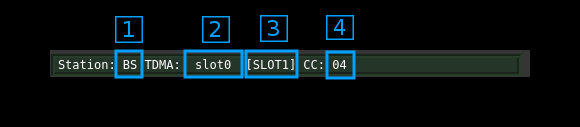
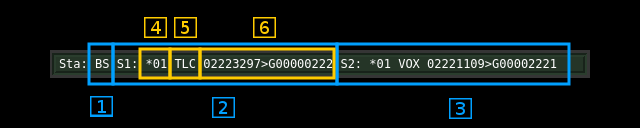
Updated documentation related to the DSD demon plugin

diff --git a/plugins/channel/demoddsd/readme.md b/plugins/channel/demoddsd/readme.md
@@ -4,10 +4,16 @@
 
 This plugin uses the [DSDcc](https://github.com/f4exb/dsdcc) library that has been rewritten from the original [DSD](https://github.com/szechyjs/dsd) program to decode several digital speech formats. At present it covers the following:
 
-  - DMR/MOTOTRBO: European two slot TDMA standard. MOTOTRBO is a popular implementation of this standard.
+  - DMR/MOTOTRBO: ETSI two slot TDMA standard. MOTOTRBO is a popular implementation of this standard.
+  - dPMR: Another ETSI standard at slower rate (2400 Baud / 6.25 kHz) and FDMA
   - D-Star: developed and promoted by Icom for Amateur Radio customers.
 
-The modulation and format is automatically detected and switched.
+It can only detect the following standards (no data, no voice):
+
+  - Yaesu System Fusion (YSF): developed and promoted by Yaesu for Amateur Radio customers.
+  - NXDN: A joint Icom (IDAS) and Kenwood (Nexedge) standard with 2400 and 4800 Baud versions.
+
+The modulation and standard is automatically detected and switched depending on the Baud rate chosen.
 
 To enable this plugin at compile time you will need to have DSDcc installed in your system. Please follow instructions in [DSDcc readme](https://github.com/f4exb/dsdcc/blob/master/Readme.md) to build and install DSDcc. If you install it in a custom location say `/opt/install/dsdcc` you will need to add these defines to the cmake command: `-DLIBDSDCC_INCLUDE_DIR=/opt/install/dsdcc/include/dsdcc -DLIBDSDCC_LIBRARIES=/opt/install/dsdcc/lib/libdsdcc.so`
 
@@ -53,19 +59,14 @@ Here you can specify which symbol rate or Baud rate is expected. Choices are:
 This can be one of the following:
 
   - `+DMRd`: non-inverted DMR data frame
-  - `-DMRd`: inverted DMR data frame
   - `+DMRv`: non-inverted DMR voice frame
-  - `-DMRv`: inverted DMR voice frame
   - `+D-STAR`: non-inverted D-Star frame
   - `-D-STAR`: inverted D-Star frame
   - `+D-STAR_HD`: non-inverted D-Star header frame encountered
   - `-D-STAR_HD`: inverted D-Star header frame encountered
   - `+dPMR`: non-inverted dPMR non-packet frame
-  - `-dPMR`: inverted dPMR non-packet frame
   - `+NXDN`: non-inverted NXDN frame (detection only)
-  - `-NXDN`: inverted NXDN frame (detection only)
   - `+YSF`: non-inverted Yaesu System Fusion frame (detection only)
-  - `-YSF`: inverted Yaesu System Fusion frame (detection only)
 
 <h3>4: Symbol synchronization zero crossing hits in %</h3>
 
@@ -119,64 +120,122 @@ This is the audio volume for positive values. A value of zero triggers the auto 
 
 This is the deviation in kHz leading to maximum (100%) deviation. You should aim for 30 to 50% (+/-300 to +/-500m) deviation on the scope display.
 
-<h3>15: Squelch level</h3>
+<h3>15: Two slot TDMA handling</h3>
+
+This is useful for two slot TDMA modes that is only DMR at present. FDMA modes are treated as using slot #1 only.
+
+![DSD TDMA handling](../../../doc/img/DSDdemod_plugin_tdma.png)
+
+<h4>15.1: Slot #1 voice select</h4>
+
+Toggle button to select slot #1 voice output. When on waves appear on the icon. The icon turns green when voice frames are processed for this slot. For FDMA modes you may want to leave only this toggle on.
+
+<h4>15.2: Slot #2 voice select</h4>
+
+Toggle button to select slot #2 voice output. When on waves appear on the icon. The icon turns green when voice frames are processed for this slot. For FDMA modes you may want to leave this toggle off.
+
+<h4>15.3: TDMA stereo mode toggle</h4>
+
+  - When off the icon shows a single loudspeaker. It mixes slot #1 and slot #2 voice as a mono audio signal
+  - When on the icon shows a pair of loudspeakers. It sends slot #1 vocie to the left stereo audio channel and slot #2 to the right one
+  
+For FDMA standards you may want to leave this as mono mode.
+
+<h3>16: Squelch level</h3>
 
 The level corresponds to the channel power above which the squelch gate opens.
 
-<h3>16: Squelch time gate</h3>
+<h3>17: Squelch time gate</h3>
 
 Number of milliseconds following squelch gate opening after which the signal is actually fed to the decoder. 0 means no delay i.e. immediate feed.
 
-<h3>17: Audio mute and squelch indicator</h3>
+<h3>18: Audio mute and squelch indicator</h3>
 
 Audio mute toggle button. This button lights in green when the squelch opens.
 
-<h3>18: Format specific status display</h3>
+<h3>19: Format specific status display</h3>
 
 When the display is active the background turns from the surrounding gray color to dark green. It shows informatory or status messages that are particular to each format.
 
-<h4>18.1: D-Star status display</h4>
+<h4>19.1: D-Star status display</h4>
 
 ![DSD D-Star status](../../../doc/img/DSDdemod_plugin_dstar_status.png)
 
 These is the standard D-Star embedded information that is read from the header frame.
 
-<h5>18.1.1: Repeater 1 callsign</h5>
-<h5>18.1.2: Repeater 2 callsign</h5>
-<h5>18.1.3: Destination (your) callsign</h5>
-<h5>18.1.4: Origin (my) callsign</h5>
+<h5>19.1.1: Repeater 1 callsign</h5>
+<h5>19.1.2: Repeater 2 callsign</h5>
+<h5>19.1.3: Destination (your) callsign</h5>
+<h5>19.1.4: Origin (my) callsign</h5>
 
-<h4>18.2: DMR status display</h4>
+<h4>19.2: DMR status display</h4>
 
 ![DSD DMR status](../../../doc/img/DSDdemod_plugin_dmr_status.png)
 
-<h5>18.2.1: Station role</h5>
+  - Note 1: statuses are polled at ~1s rate and therefore do not reflect values instantaneously. As a consequence some block types that occur during the conversation may not appear.
+  - Note 2: status values remain unchanged until a new value is available for the channel or the transmissions stops then all values of both channels are cleared 
+
+<h5>19.2.1: Station role</h5>
 
   - `BS`: base station
   - `MS`: mobile station
-  - `NA`: not applicable or could not be determined
+  - `NA`: not applicable or could not be determined (you should not see this normally)
 
-<h5>18.2.2: TDMA slot #0 status</h5>
+<h5>19.2.2: TDMA slot #0 status</h5>
 
-  - `slot0`: nothing received in slot #0
-  - `[slot0]`: data frame received for slot #0
-  - `[SLOT0]`: voice frame received for slot #0
+For mobile stations on an inbound channel there is no channel identification (no CACH) so information goes there by default.
 
-<h5>18.2.3: TDMA slot #1 status</h5>
+<h5>19.2.3: TDMA slot #1 status</h5>
 
-  - `slot1`: nothing received in slot #1
-  - `[slot1]`: data frame received for slot #1
-  - `[SLOT1]`: voice frame received for slot #1
+<h5>19.2.4: Channel status and color code</h5>
+
+This applies to base stations and mobile stations in continuous mode that is transmissions including the CACH sequences.
+
+  - The first character is either:
   
-<h5>18.2.4: Color Code</h5>
+    - `*`: Busy. That is the AT bit on the opposite channel is on
+    - `.`: Clear. That is the AT bit on the opposite channel is off
+    - `/`: The CACH could not be decoded and information is missing
+    
+  - The two next characters are either:
+  
+    - The color code from 0 to 15 (4 bits)
+    - `--`: The color code could not be decoded and information is missing
+  
+<h5>19.2.5: Slot type</h5>
 
-This is the color code in use (0 to 15). It may briefly change value to a incorrect one. Take into account the value shown most of the time.
+This is either:
 
-<h4>18.3: dPMR status display</h4>
+   - `VOX`: voice block
+   - `IDL`: data idle block
+   - `VLC`: voice Link Control data block
+   - `TLC`: terminator with Link Control information data block
+   - `CSB`: CSBK (Control Signalling BlocK) data block
+   - `MBH`: Multi Block Control block header data block
+   - `MBC`: Multi Block Control block continuation data block
+   - `DAH`: Data header block
+   - `D12`: 1/2 rate data block
+   - `D34`: 3/4 rate data block
+   - `DB1`: full rate data block
+   - `RES`: reserved data block 
+   - `UNK`: unknown data type or could not be decoded
+
+<h5>19.2.6: Addressing information</h5>
+
+String is in the form: `02223297>G00000222`
+
+  - At the left of the `>` sign this is the source address (24 bits) as defined in the DMR ETSI standard
+  - The first character at the right of the `>` sign is the address type indicator:
+  
+    - `G`: group address
+    - `U`: unit (individual) address
+  - Next on the right is the target address (24 bits) as defined in the DMR ETSI standard
+
+<h4>19.3: dPMR status display</h4>
 
 ![DSD dPMR status](../../../doc/img/DSDdemod_plugin_dpmr_status.png)
 
-<h5>18.3.1: dPMR frame tyoe</h5>
+<h5>19.3.1: dPMR frame tyoe</h5>
 
   - `--`: undetermined
   - `HD`: Header of FS1 type
@@ -188,21 +247,21 @@ This is the color code in use (0 to 15). It may briefly change value to a incorr
   - `XS`: Extended search: looking for a new payload frame when out of sequence
   - `EN`: End frame
   
-<h5>18.3.2: Colour code</h5>
+<h5>19.3.2: Colour code</h5>
 
 Colour code in hexadecimal (12 bits)
 
-<h5>18.3.3: Own ID</h5>
+<h5>19.3.3: Own ID</h5>
 
 Sender's identification code in hexadecimal (24 bits)
 
-<h5>18.3.4: Called ID</h5>
+<h5>19.3.4: Called ID</h5>
 
 Called party's identification code in hexadecimal (24 bits)
 
-<h3>19: Discriminator output scope display</h3>
+<h3>20: Discriminator output scope display</h3>
 
-<h4>19.1 Transitions constellation display</h4>
+<h4>20.1 Transitions constellation display</h4>
 
 This is selected by the transition constellation or symbol synchronization signal toggle (see 7)
 
@@ -218,18 +277,18 @@ This allows the visualization of symbol transitions which depend on the type of 
 
 ![DSD scope](../../../doc/img/DSDdemod_plugin_scope.png)
 
-<h5>19.1.1: Setting the display</h5>
+<h5>20.1.1: Setting the display</h5>
 
   - On the combo box you should choose IQ (lin) for the primary display and IQ (pol) for secondary display
   - On the display buttons you should choose the side by side display
 
 On the same line you can choose any trace length. If it is too short the constellation points will not appear clearly and if it is too long the polar figure will be too dense. Usually 100ms give good results.
 
-<h5>19.1.2: IQ linear display</h5>
+<h5>20.1.2: IQ linear display</h5>
 
 The yellow trace (I) is the direct trace and the blue trace (Q) is the delayed trace. This can show how symbols differentiate between each other in a sort of eye diagram.
 
-<h5>19.1.3: IQ polar display</h5>
+<h5>20.1.3: IQ polar display</h5>
 
 This shows the constellation of transition points. You should adjust the frequency shift to center the figure and the maximum deviation and/or discriminator gain to contain the figure within the +/-0.4 square. +/- 0.1 to +/- 0.3 usually give the best results.
 
@@ -265,48 +324,48 @@ There are 16 possible points corresponding to the 16 possible transitions betwee
 
 Because not all transitions are possible similarly to the 2-FSK case pointer moves from the lower left side of the diagonal to the upper right side are not possible.
 
-<h5>19.1.4: I gain</h5>
+<h5>20.1.4: I gain</h5>
 
 You should set the slider to a unity (1) span (+/- 0.5) with no offset. This corresponds to full range in optimal conditions (100%). You can set the slider fully to the left (2) for a +/- 1.0 spn if you don't exactly match these conditions.
 
-<h5>19.1.5: Q gain</h5>
+<h5>20.1.5: Q gain</h5>
 
 You should set the slider to a unity (1) span (+/- 0.5) with no offset. This corresponds to full range in optimal conditions (100%). You can set the slider fully to the left (2) for a +/- 1.0 spn if you don't exactly match these conditions.
 
-<h5>19.1.6: Trigger settings</h5>
+<h5>20.1.6: Trigger settings</h5>
 
 You can leave the trigger free running or set it to I linear with a 0 threshold.
 
-<h4>19.2 Symbol synchronization display</h4>
+<h4>20.2 Symbol synchronization display</h4>
 
 This is selected by the transition constellation or symbol synchronization signal toggle (see 7)
 
 ![DSD scope](../../../doc/img/DSDdemod_plugin_scope2.png)
 
-<h5>19.2.1 IQ linear display</h5>
+<h5>20.2.1 IQ linear display</h5>
 
 The I trace (yellow) is the discriminator signal and the Q trace (blue) is the symbol synchronization monitor trace that goes to the estimated maximum discriminator signal level when a zero crossing in the symbol synchronization control signal is detected and goes to mid position ((max - min) / 2) of the discriminator signal when a symbol period starts.
 
 The symbol synchronization control signal is obtained by squaring the discriminator signal and passing it through a narrow second order bandpass filter centered on the symbol rate. Its zero crossing should occur close to the first fourth of a symbol period therefore when synchronization is ideal the Q trace (blue) should go down to mid position in the first fourth of the symbol period.
 
-<h5>19.2.2: Setting the display</h5>
+<h5>20.2.2: Setting the display</h5>
 
   - On the combo box you should choose IQ (lin) for the primary display and IQ (pol) for secondary display
   - On the display buttons you should choose the first display (1)
 
-<h5>19.2.3: Timing settings</h5>
+<h5>20.2.3: Timing settings</h5>
 
 You can choose any trace length with the third slider from the left however 100 ms will give you the best view. You may stretch further the display by reducing the full length to 20 ms or less using the first slider. You can move this 20 ms window across the 100 ms trace with the middle slider.
 
-<h5>19.2.4: I gain</h5>
+<h5>20.2.4: I gain</h5>
 
 You should set the slider to a unity (1) span (+/- 0.5) with no offset. This corresponds to full range in optimal conditions (100%). You can set the slider fully to the left (2) for a +/- 1.0 spn if you don't exactly match these conditions.
 
-<h5>19.2.5: Q gain</h5>
+<h5>20.2.5: Q gain</h5>
 
 You should set the slider to a unity (1) span (+/- 0.5) with no offset. This corresponds to full range in optimal conditions (100%). You can set the slider fully to the left (2) for a +/- 1.0 spn if you don't exactly match these conditions.
 
-<h5>19.2.6: Trigger settings</h5>
+<h5>20.2.6: Trigger settings</h5>
 
 You can leave the trigger free running or set it to I linear with a 0 threshold.
 

diff --git a/Readme.md b/Readme.md
@@ -106,6 +106,7 @@ Note that this plugin does not require any of the hardware support libraries nor
 This is the `demoddsd` plugin. At present it can be used to decode the following digital speech formats:
 
   - DMR/MOTOTRBO
+  - dPMR
   - D-Star
 
 It is based on the [DSDcc](https://github.com/f4exb/dsdcc) C++ library which is a rewrite of the original [DSD](https://github.com/szechyjs/dsd) program. So you will need to have DSDcc installed in your system. Please follow instructions in [DSDcc readme](https://github.com/f4exb/dsdcc/blob/master/Readme.md) to build and install DSDcc. If you install it in a custom location say `/opt/install/dsdcc` you will need to add these defines to the cmake command: `-DLIBDSDCC_INCLUDE_DIR=/opt/install/dsdcc/include/dsdcc -DLIBDSDCC_LIBRARIES=/opt/install/dsdcc/lib/libdsdcc.so`
@@ -372,9 +373,15 @@ Use the `windeployqt.exe` of the MSys2 distribution to copy the base files to yo
 
 The final packaging is done with the `windows64.install.bat` utility. Assuming `D:\development\sdrangel` is the root directory of your cloned source repository, `D:\msys64` is the installation directory of MSys2, `D:\libusb-1.0.19\MinGW64` is your libusb installation directory and `D:\Programs\sdrangel64` is your target installation directory do: `D:\development\sdrangel\windows64.install.bat release D:\Programs\sdrangel`. Modify the script if your MSys2 and libusb locations are different.
 
+<h1>Mac O/S</h1>
+
+A Mac O/S build was contributed from version 2.0.1. Please be aware that this is still experimental.
+
 <h1>Android</h1>
 
-Despite several attempts and the presence of Android related stuff still present in the .pro files there is NO and will NEVER be any support for Android. An APK can be built but Qt fails miserably at porting applications other than its ridiculously simple examples. When multi-threading is involved a lot like in SDRangel this simply crashes at the very beginning of the application when starting the event loop.
+Despite several attempts and the presence of Android related stuff still present in the .pro files there is no Android build available. An APK can be built but Qt fails miserably at porting applications other than its ridiculously simple examples. When multi-threading is involved a lot like in SDRangel this simply crashes at the very beginning of the application when starting the event loop.
+
+Contributors welcome!
 
 
 <h1>Software installation on Linux flavours</h1>
@@ -401,8 +408,8 @@ See the v1.0.1 first official relase [release notes](https://github.com/f4exb/sd
 
 <h2>To Do</h2>
 
-  - Allow the handling of more than one device at the same time. For Rx/Tx devices like the BladeRF Rx and Tx appear as two logical devices with two plugin instances and a common handler for the physical device services both plugins. This effectively opens Tx support.
-  - Tx channels
+  - Tx support for devices like Blade-RF or Hack-RF and simple file output (probably to start with)
+  - Tx channels to feed Tx devices
   - Possibility to connect channels for example Rx to Tx or single Rx channel to dual Rx channel supporting MI(MO) features like 360 degree polarization detection.
   - Specialize plugins into channel and sample source plugins since both have almost complete different requirements and only little in common
   - 32 bit samples for the Channel Analyzer
@@ -411,7 +418,7 @@ See the v1.0.1 first official relase [release notes](https://github.com/f4exb/sd
   - Allow arbitrary sample rate for channelizers and demodulators (not multiple of 48 kHz). Prerequisite for polyphase channelizer
   - Implement polyphase channelizer
   - Level calibration
-  - Even more demods ...
+  - Even more demods. Contributors welcome!
 
 <h1>Developper's notes</h1>
 
